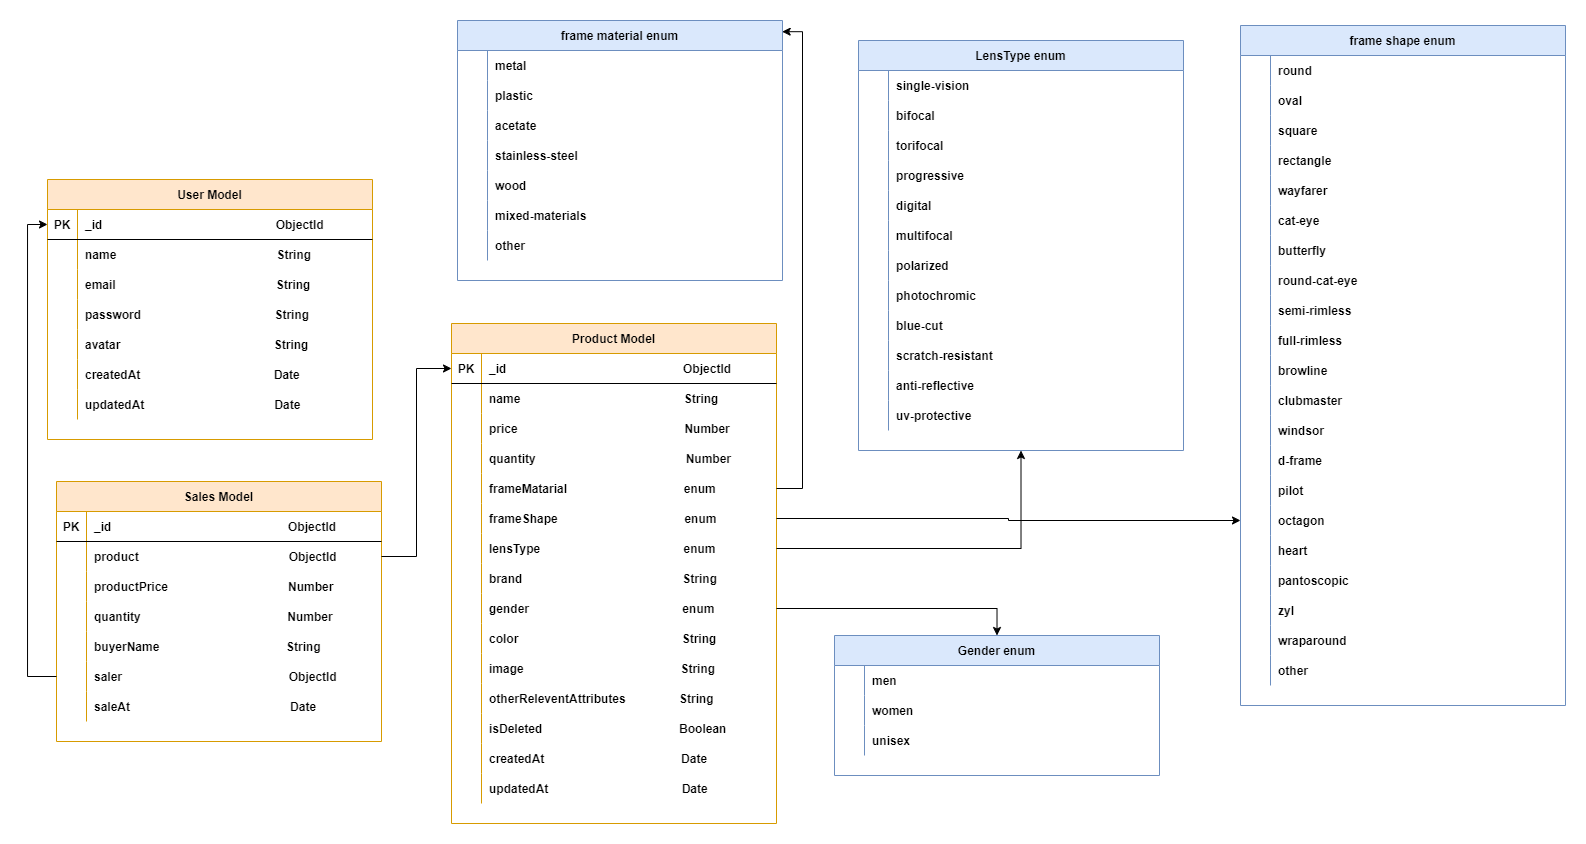
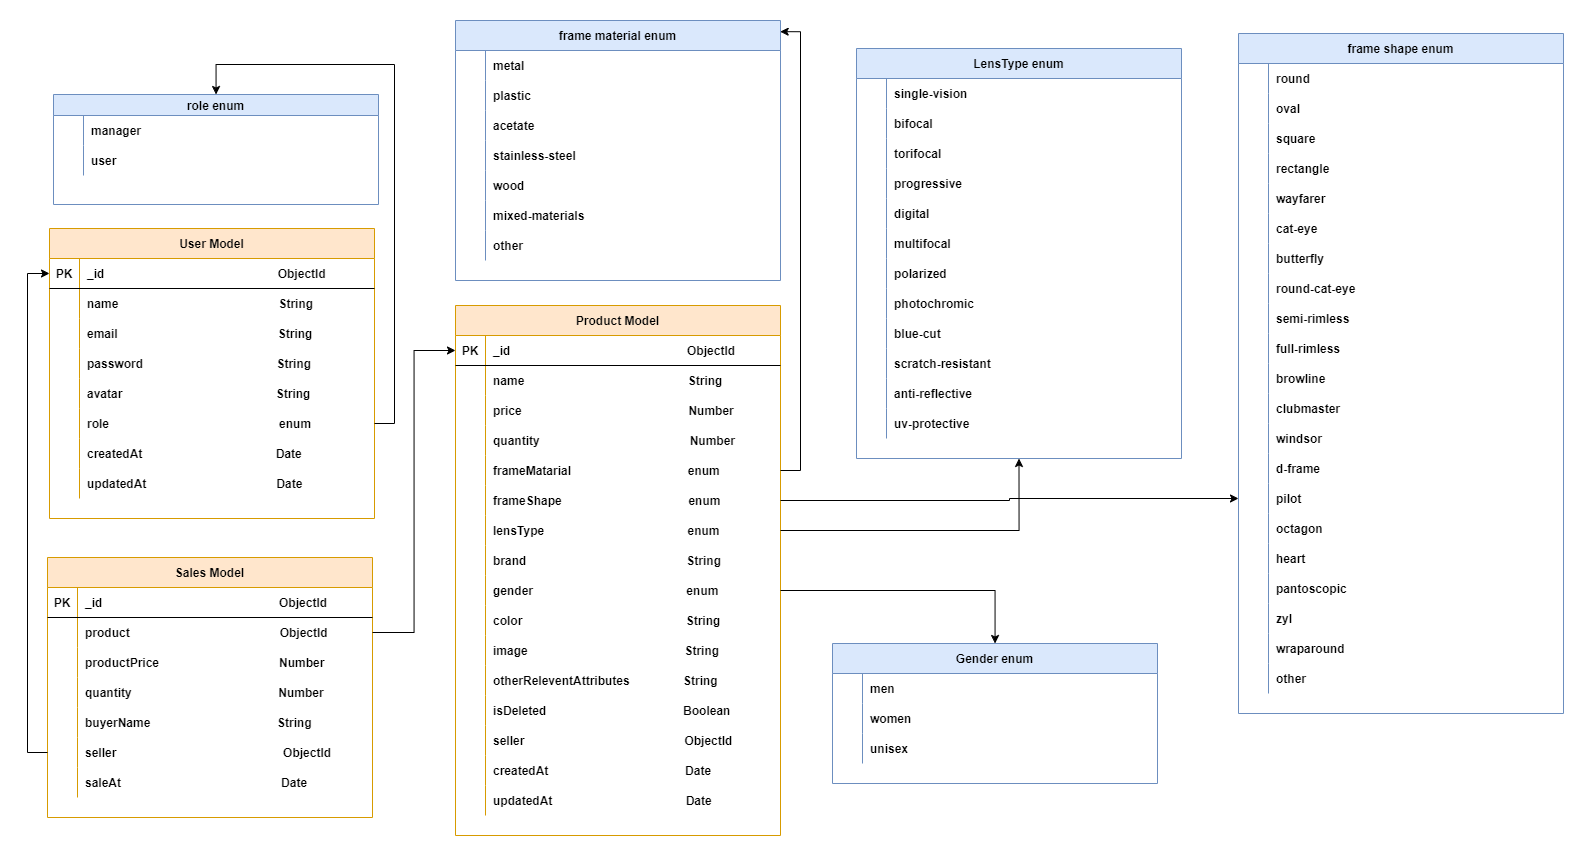
backend completed

diff --git a/README.md b/README.md
@@ -7,13 +7,13 @@
 ### Clone the repository
 
 ```bash
-git clone https://github.com/Porgramming-Hero-web-course/l2b2-full-stack-a5-server-side-mfarhadattari.git
+git clone https://github.com/Porgramming-Hero-web-course/l2-b2-assignment-6-backend-mfarhadattari.git
 ```
 
 ### Install Dependencies
 
 ```bash
-cd l2b2-full-stack-a5-server-side-mfarhadattari
+cd l2-b2-assignment-6-backend-mfarhadattari
 yarn
 ```
 
@@ -25,6 +25,9 @@ PORT = <PORT>
 DB_URI = <DB_URI>
 APP_NAME = <APP_NAME>
 CLIENT_BASE_URL = <CLIENT_BASE_URL>
+MANAGER_NAME = <MANAGER_NAME>
+MANAGER_EMAIL = <MANAGER_EMAIL>
+MANAGER_PASS = <MANAGER_PASS>
 CLOUDINARY_CLOUD_NAME = <CLOUD_NAME>
 CLOUDINARY_API_KEY = <API_KEY>
 CLOUDINARY_API_SECRET = <API_SECRET>
